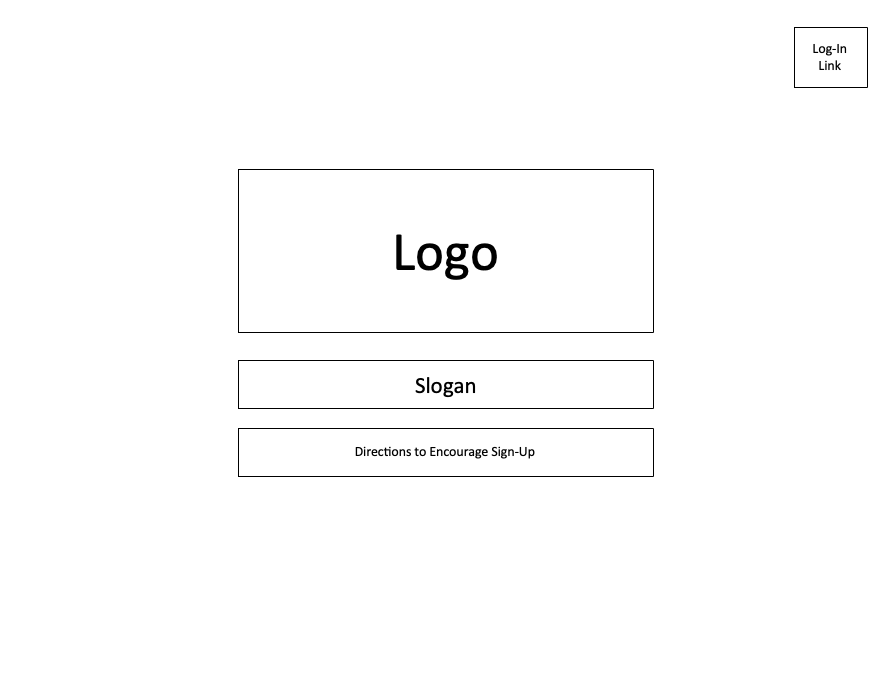
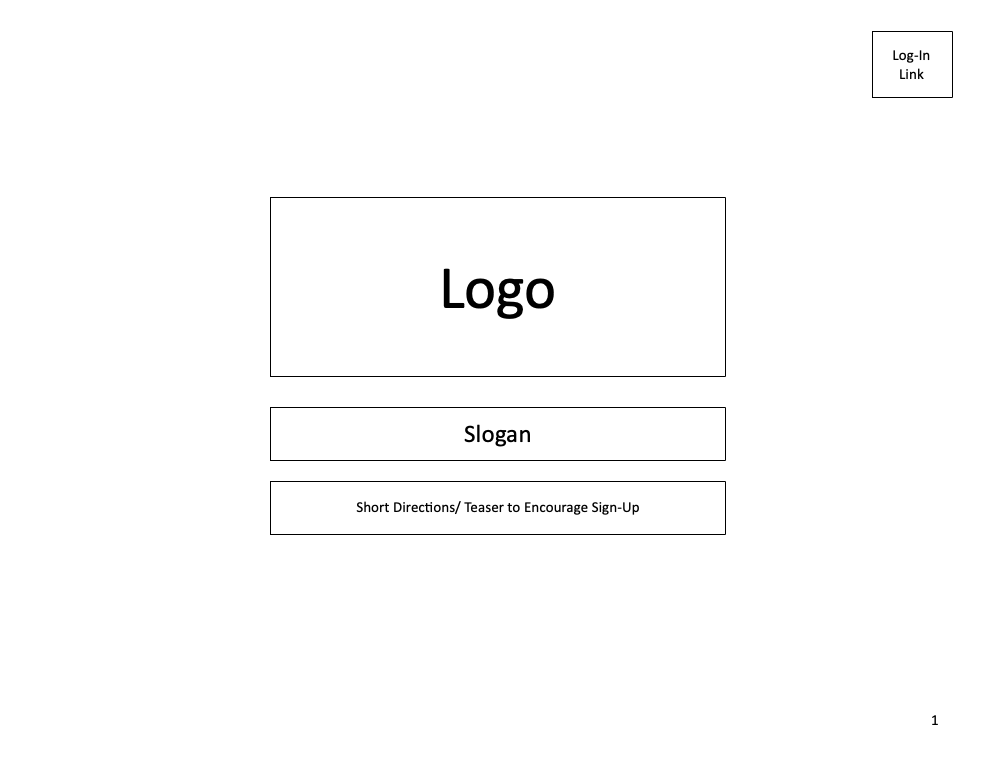
updated readme with description, tech stack, wireframes, user stories, MVP, Stretch goals

diff --git a/README.md b/README.md
@@ -1,53 +1,127 @@
-# Project 2 oAuth Template
+# Project 2 - GOAL-KR
 
-Use this repo as the base for your project 2.
-
-## Project Idea and description
-## ERDs
-## Restful Routing Chart
-## Wireframes of all user views
-## User Stories
-- [ ] AAU, I want the ability to log-in with my Google account credentials
-- [ ] AAU, I want to track my quarterly objectives & key results (OKRs) for accountability towards my personal goals
-- [ ] AAU, I want to be able to update my OKRS as I progress (i.e. update spelling mistake or increase percentage to goal)
-- [ ] AAU, I want to be able to add notes throughout the quarter 
+Created by Leah Livingston
 
 
 
 ---
-## MVP goals/Stretch Goals
+### **Project Idea and Description**
 
+Ever dream of achieving your personal goals with the same precision and focus as the Fortune 100 companies? Look no further. This project brings the power of OKRs to your fingertips. 
+
+###### What's an OKR?
+OKRs, short for objectives and key results, is a proven goal-setting tool that keeps you accountable, tracks your progress, and helps to achieve milestones that might seem "just out of reach". Imagine setting a BHAG goal, aligning it with your deepest desire, and having a clear roadmap to success!
+
+
+###### Why do I need this?
+*Accountability: Stay on course, achieve your dreams, and watch your progress
+*Focus: Laser-focus on what truly matters to you (and future you)
+*Motivation: Experience the thrill of accomplishment as you move closer to your dreams, one milestone at a time.
+
+**🎯 Hit your mark. Achieve success!**
+
+###### Is this right for me?
+*Are you longing to buy a house but struggle to save that initial deposit?
+*Do you dream of a healthier lifestyle but find yourself ordering takeout more often than hitting the gym?
+*Have you always wanted to write a book but can't find time in your hectic schedule?
+
+
+You're not alone! Life happens, and that's why OKRs are the secret weapon used by successful organizations across the globe.
+
+---
+### **Tech Stack**
+It's an Express web application framework for Node.js, employed with HTML, CSS, & JavaScript, MongoDB & oAuth.
+
+
+
+---
+## ERDs
+
+
+
+---
+### **Restful Routing Chart**
+
+
+
+
+
+
+---
+### **Wireframes of your game**
+The minimum viable product (MVP) goal is for the user interface to show basic CSS in order for a functional OKR tool to be utilized.
+
+###### Starting Screen
+![Landing Screen](./images/LandingPageWireframe.png)
+---
+###### Home Screen
+![Home Screen](./images/HomePageWireframe.png)
+---
+###### OKR Screens
+![OKR Screen A](./images/OkrPageWireframeA.png)
+---
+![OKR Screen B](./images/OkrPageWireframeB.png)
+---
+![OKR Screen C](./images/OkrPageWireframeC.png)
+---
+###### Add OKR Screen
+![Add OKR Screen](./images/AddOkrPageWireframe.png)
+---
+###### OKR Detail Screens
+![OKR Detail Screen A](./images/OkrDetailPageWireframeA.png)
+---
+![OKR Detail Screen B](./images/OkrDetailPageWireframeB.png)
+---
+###### Update OKR Screen
+!Update OKR Screen](./images/UpdateOkrPageWireframe.png)
+---
+###### Note Screens
+![Note Screen A](./images/NotesPageWireframeA.png)
+---
+![Note Screen B](./images/NotesPageWireframeB.png)
+
+
+
+---
+### **User Stories**
+- [ ] AAU, I the ability to track my quarterly objectives and key results (OKRs) for written accountability towards my personal goals
+- [ ] AAU, I want the ability to log-in with my Google account credentials
+- [ ] AAU, I do not want other people to see my individual OKRs
+- [ ] AAU, I want the ability to update my OKRs (i.e. increase percentage to goal or update spelling mistakes)
+- [ ] AAU, I want the ability to add notes to track personal progress throughout the quarter
+
+
+
+---
 ### **MVP Goals**
-
 
 ###### Style
 - [ ] Include basic CSS to ensure functionality works
 - [ ] Include left column navigation including 'Logo' icon, 'Home' page, 'OKR' page, 'Note' page & 'Log Out' button
 - [ ] Include individual page views of 'Home' screen, 'All OKRs' screen, 'All Notes' screen, 'Add an OKR' screen, 'Add a Note' screen, 'OKR Details' screen, & 'Update OKR' screen
-- [ ] Optimized for desktop & tablet
-
+- [ ] Optimization for desktop & tablet
 
 ###### Functionality
 - [ ] Include a landing page with ability to log-in via oAuth
 - [ ] Include ability to log-out after logging-in
 - [ ] Include ability to add / update / delete individual objectives & key results (OKRs) 
 - [ ] Include ability to add a Note
-- [ ] Optimized for desktop & tablet  
+- [ ] Optimization for desktop & tablet  
+- [ ] Objective's percentage progress is calculated automatically based off individual percentages
+
 
 
 ---
 ### **Stretch Goals**
 
-
 ###### Style
 - [ ] Includes CSS styling following brand kit
 - [ ] Completed brand kit for future development use
-- [ ] Optimized for mobile
-
+- [ ] Optimization for mobile
 
 ###### Functionality
 - [ ] Include ability to update / delete Notes 
-- [ ] Optimized for mobile
+- [ ] Optimization for mobile
 - [ ] Ability to update existing OKRs & Notes in same screen (rather than being directed to a new screen)
 - [ ] Ability to archive a quarter's OKRs into historical view (or listed below current OKRs)
 - [ ] Ability to set annual goals & break into quarterly chunks for long-term planning
